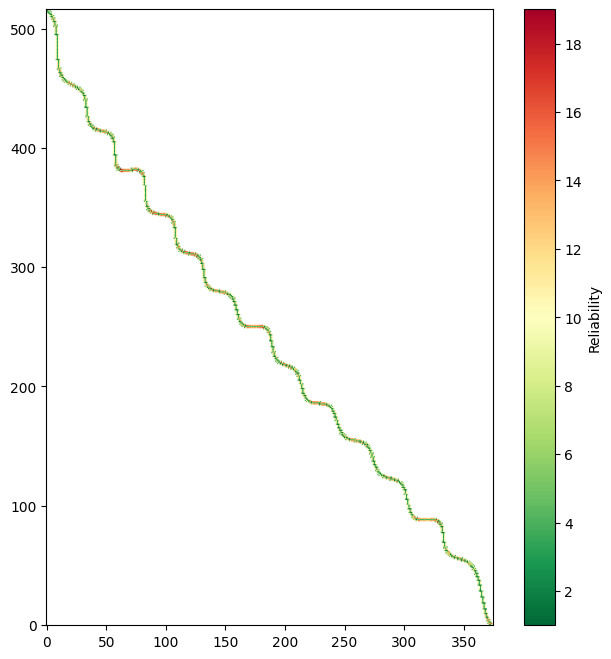
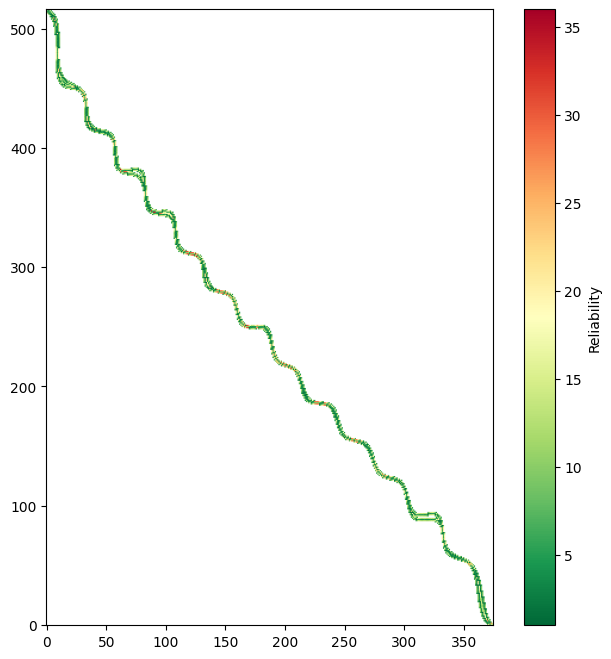
feat: added bump hazard coefficient Co-authored-by: Nunzio Licalzi <nunzio.licalzi9@gmail.com>
(vacanze a manila)

diff --git a/main_matrix.py b/main_matrix.py
@@ -14,6 +14,73 @@ from trajectory.tangent_derivative import obtain_inclination, obtain_slope_borde
 from tqdm.contrib.concurrent import process_map
 from scipy.ndimage import convolve
 
+def get_bump_coeff(alfa, tan, der_x, der_y, sw=None, tol:float=1e-3):
+
+    if sw is None:
+        sw:int = int(0.01*len(alfa))  
+    sw:int = ((sw - sw % 2) // 2) if sw > 10 else 15
+        
+    #calculate vector normal to the tangent vector
+    
+    normal = np.concatenate([tan[:, 1::-1] * np.array([-1, 1]), tan[:, 2:3]], axis=1)
+    
+    gamma = np.degrees(np.atan((der_x * normal[:, 0] + der_y * normal[:, 1])/(np.linalg.norm(normal, axis=1) + 1e-9)))
+
+    der_gamma = np.gradient(gamma)
+    
+    der_sw_gamma = np.zeros_like(der_gamma)
+
+    for j in range(sw, len(der_gamma)-sw):
+        der_sw_gamma[j] = np.mean(der_gamma[j-sw:j+sw])
+        
+    for j in range(sw):
+        der_sw_gamma[j] = np.mean(der_gamma[0:j+sw])
+            
+    for j in range(len(der_gamma)-sw, len(der_gamma)):
+        der_sw_gamma[j] = np.mean(der_gamma[j-sw:len(der_gamma)])
+
+    #COUNT NUMBER OF ZEROS IN SMOOTHED DERIVATIVE, in a sliding window
+    count_dgamma_zeros = np.zeros_like(der_sw_gamma)
+    for j in range(sw, len(der_gamma)-sw):        
+        count_dgamma_zeros[j] += np.sum(np.diff(np.where(np.abs(der_sw_gamma[j-sw:j+sw]) < tol, 1, 0), prepend=0) == 1)
+        
+    for j in range(sw):
+        count_dgamma_zeros[j] += np.sum(np.diff(np.where(np.abs(der_sw_gamma[0:j+sw]) < tol, 1, 0), prepend=0) == 1)
+            
+    for j in range(len(der_gamma)-sw, len(der_gamma)):
+        count_dgamma_zeros[j] += np.sum(np.diff(np.where(np.abs(der_sw_gamma[j-sw:len(der_gamma)]) < tol, 1, 0), prepend=0) == 1)
+    
+
+    #Now do the same on alfa
+    der_alfa = np.gradient(alfa)
+
+    der_sw_alfa = np.zeros_like(der_alfa)
+
+    for j in range(sw, len(der_alfa)-sw):
+        der_sw_alfa[j] = np.mean(der_alfa[j-sw:j+sw])
+        
+    for j in range(sw):
+        der_sw_alfa[j] = np.mean(der_alfa[0:j+sw])
+            
+    for j in range(len(der_alfa)-sw, len(der_alfa)):
+        der_sw_alfa[j] = np.mean(der_alfa[j-sw:len(der_alfa)])
+    
+    count_dalfa_zeros = np.zeros_like(der_sw_alfa)
+    for j in range(sw, len(der_alfa)-sw):        
+        count_dalfa_zeros[j] += np.sum(np.diff(np.where(np.abs(der_sw_alfa[j-sw:j+sw]) < tol, 1, 0), prepend=0) == 1)
+    
+        
+    for j in range(sw):
+        count_dalfa_zeros[j] += np.sum(np.diff(np.where(np.abs(der_sw_alfa[0:j+sw]) < tol, 1, 0), prepend=0) == 1)
+            
+    for j in range(len(der_alfa)-sw, len(der_alfa)):
+        count_dalfa_zeros[j] += np.sum(np.diff(np.where(np.abs(der_sw_alfa[j-sw:len(der_alfa)]) < tol, 1, 0), prepend=0) == 1)
+    
+    haz_coeff = count_dalfa_zeros+count_dgamma_zeros
+
+    haz_coeff = (haz_coeff-np.min(haz_coeff))/(np.max(haz_coeff)-np.min(haz_coeff) + 1e-9)
+
+    return haz_coeff
 
 def set_seed(seed:int) -> int:
     np.random.seed(seed)
@@ -21,7 +88,8 @@ def set_seed(seed:int) -> int:
     return seed
 
 def return_inclination(x_utm:np.ndarray, y_utm:np.ndarray, z_traj:np.ndarray, path_to_las:str):    
-    alpha_deg = -obtain_inclination(x_utm,y_utm,path_to_las)
+    alpha_deg, grads, real_z = obtain_inclination(x_utm,y_utm,path_to_las)
+    alpha_deg = -alpha_deg
     N = len(x_utm)
     
     if alpha_deg.shape[0] != N or np.isnan(alpha_deg).any():
@@ -34,17 +102,13 @@ def return_inclination(x_utm:np.ndarray, y_utm:np.ndarray, z_traj:np.ndarray, pa
     alpha_deg[N-1] = alpha_deg[N-2]
     alpha_deg[0] = alpha_deg[1] # Riempimento bordo iniziale
 
-    return alpha_deg
+    return alpha_deg, grads, real_z
         
-
 def _simulate(df, path_to_las:str):
-    alphas = return_inclination(df["Est [m]"].values, df["Nord [m]"].values, df["Quota Orto. [m]"].values, path_to_las)
-    return esegui_simulazione(df["Est [m]"].values, df["Nord [m]"].values, df["Quota Orto. [m]"].values, alfa=alphas), alphas
+    alphas, grads, real_z = return_inclination(df["Est [m]"].values, df["Nord [m]"].values, df["Quota Orto. [m]"].values, path_to_las)
+    return esegui_simulazione(df["Est [m]"].values, df["Nord [m]"].values, df["Quota Orto. [m]"].values, alfa=alphas), alphas, grads, real_z
 
-
-
-def main(): #To call main paste: python main_matrix.py --gates data/pointsLocationFirstCourse.csv --numTrajectories 200
-    NUMPOINTS = 3_000
+def main(num_points:int=3_000): #To call main paste: python main_matrix.py --gates data/pointsLocationFirstCourse.csv --numTrajectories 200
     parser = argparse.ArgumentParser(description="A script that accepts keyword-like arguments.")
     #paths for loading and saving data (REQUIRED)
     parser.add_argument("--gates", type=str, help="gates_path", required=True)
@@ -86,7 +150,7 @@ def main(): #To call main paste: python main_matrix.py --gates data/pointsLocati
     listDf, risSim = [], []
     maxX, maxY, minX, minY = -np.inf, -np.inf, np.inf, np.inf
 
-    listDf = [loader.prepareTrajectories(numPoints=NUMPOINTS, gates=traj) for traj in newTraj]
+    listDf = [loader.prepareTrajectories(numPoints=num_points, gates=traj) for traj in newTraj]
     len_trajectories = []
     for i in range(len(listDf)):
         len_traj = 0
@@ -109,8 +173,12 @@ def main(): #To call main paste: python main_matrix.py --gates data/pointsLocati
         desc="Simulating",
         unit="traj",
     )
-    risSim, alphas  = [res[0] for res in risSim], [res[1] for res in risSim]  # Extract the simulation results and the alphas
+    risSim, alphas, grads, real_z  = [res[0] for res in risSim], [res[1] for res in risSim], [res[2] for res in risSim], [res[3] for res in risSim]  # Extract the simulation results and the alphas
 
+    haz_bump_coeffs = []
+    
+    for i in range(len(alphas)):
+        haz_bump_coeffs.append(get_bump_coeff(alphas[i], risSim[i]['tan'],grads[i][:,0], grads[i][:,1], sw=30))
     
 
     # Post processing of the results
@@ -122,7 +190,7 @@ def main(): #To call main paste: python main_matrix.py --gates data/pointsLocati
     alphas_der_sw = []
 
     for i in range(len(alphas)):
-        alpha_der = np.abs(np.gradient(alphas[i]))
+        alpha_der = np.gradient(alphas[i])#np.abs(np.gradient(alphas[i]))
         alpha_der_sw = np.zeros_like(alpha_der)
         
         for j in range(15, len(alpha_der)-15):
@@ -164,6 +232,37 @@ def main(): #To call main paste: python main_matrix.py --gates data/pointsLocati
     plt.grid()
     plt.tight_layout()
 
+
+    plt.figure(figsize=(10, 4))
+    plt.plot(grads[0][:,0], label="Inclination w.r.t. X", linestyle='-')
+    plt.plot(grads[0][:,1], label="Inclination w.r.t. Y", linestyle='-')
+    plt.xlabel("Point index")
+    plt.ylabel("Inclination (degrees)")
+    plt.title("Surface Inclination Along Trajectory")
+    plt.legend()
+    plt.grid()
+    plt.tight_layout()
+
+    plt.figure(figsize=(10, 4))
+    plt.plot(np.degrees(np.arccos(grads[0][:,0])), label="Inclination w.r.t. X", linestyle='--')
+    plt.plot(180-np.degrees(np.arccos(grads[0][:,1])), label="Inclination w.r.t. Y", linestyle='--')
+    plt.xlabel("Point index")
+    plt.ylabel("Inclination (degrees)")
+    plt.title("Surface Inclination Along Trajectory")
+    plt.legend()
+    plt.grid()
+    plt.tight_layout()
+
+    print(real_z[0])
+    plt.figure(figsize=(10, 4))
+    plt.plot(real_z[0], label="Inclination w.r.t. X", linestyle='-')
+    plt.xlabel("Point index")
+    plt.ylabel("Inclination (degrees)")
+    plt.title("Surface Inclination Along Trajectory")
+    plt.legend()
+    plt.grid()
+    plt.tight_layout()
+    
     plt.show()
 
     haz_coeff_incl = [(alpha-np.min(alpha)) / (np.max(alpha)-np.min(alpha)) for alpha in alphas_der_sw]
@@ -172,7 +271,7 @@ def main(): #To call main paste: python main_matrix.py --gates data/pointsLocati
     
     # for alpha in alphas_der:
     weight = 0.5
-    haz_coeff = weight * np.array(haz_coeff_sim) + (1-weight) * np.array(haz_coeff_incl)
+    haz_coeff = haz_bump_coeffs #weight * np.array(haz_coeff_sim) + (1-weight) * np.array(haz_coeff_incl)
 
     # Create a river matrix with the cells of 1 meter x 1 meter and fill it with the hazard coefficients (for visualization purposes)
         
@@ -214,8 +313,8 @@ def main(): #To call main paste: python main_matrix.py --gates data/pointsLocati
     tangents = []
     for i in range(len(risSim)):
         len_traj = len_trajectories[i]
-        min_p = -5*(NUMPOINTS/len_traj)
-        max_p = 2*(NUMPOINTS/len_traj)
+        min_p = -5*(num_points/len_traj)
+        max_p = 2*(num_points/len_traj)
         haz_coeff = weight * haz_coeff_sim[i] + (1-weight) * haz_coeff_incl[i]
         lim_var = np.percentile(haz_coeff, 99)
         idxs = np.argwhere(haz_coeff >= lim_var)
@@ -244,15 +343,16 @@ def main(): #To call main paste: python main_matrix.py --gates data/pointsLocati
 
     # Overlay the first 10 escape tangents on the river matrix.
     # tangents[i] = (Nord, Est, angle); angle = arctan2(dNord, dEst) in real-world coords.
+    #TODO: DECOMMENT
     sx = (W - 1) / (maxX - minX + 1e-9)   # Est [m]  -> column (Est) index scale
     sy = (H - 1) / (maxY - minY + 1e-9)   # Nord [m] -> row (Nord) index scale
-    t = np.array([-20, 20])   # half-length of each drawn tangent, in meters
-    for nord, est, angle in tangents:
-        est_idx  = (est  - minX) * sx
-        nord_idx = (nord - minY) * sy
-        # displayed image is riverMatrix.T: plot-x = Nord index, plot-y = Est index
-        plt.plot(nord_idx + np.sin(angle) * sy * t, est_idx  + np.cos(angle) * sx * t, color='blue', linewidth=1.5)
-        plt.plot(nord_idx, est_idx, marker='o', color='blue', markersize=4)
+    # t = np.array([-20, 20])   # half-length of each drawn tangent, in meters
+    # for nord, est, angle in tangents:
+    #     est_idx  = (est  - minX) * sx
+    #     nord_idx = (nord - minY) * sy
+    #     # displayed image is riverMatrix.T: plot-x = Nord index, plot-y = Est index
+    #     plt.plot(nord_idx + np.sin(angle) * sy * t, est_idx  + np.cos(angle) * sx * t, color='blue', linewidth=1.5)
+    #     plt.plot(nord_idx, est_idx, marker='o', color='blue', markersize=4)
 
 
     # Overlay the slope borders recovered from the --path_to_las point cloud.
@@ -289,6 +389,7 @@ def main(): #To call main paste: python main_matrix.py --gates data/pointsLocati
     
 
 if __name__ == "__main__":
-    SEED = 23
+    SEED:int = 23
+    NUM_POINTS:int = 3_000
     assert set_seed(SEED) == SEED, "Error setting the seed"
     main()

diff --git a/trajectory/tangent_derivative.py b/trajectory/tangent_derivative.py
@@ -37,6 +37,7 @@ import argparse
 import json
 import os
 
+import pandas as pd
 import numpy as np
 from scipy.spatial import cKDTree
 from scipy.ndimage import (
@@ -48,6 +49,8 @@ from scipy.ndimage import (
 
 import laspy
 
+
+from scipy.ndimage import convolve
 
 def load_trajectory(json_path):
     """Load the GNSS trajectory as horizontal positions + reference height.
@@ -234,10 +237,16 @@ def obtain_inclination(x, y, file_source):
     xy = np.stack([x, y], axis=1)
     bbox = (xy[:, 0].min(), xy[:, 1].min(), xy[:, 0].max(), xy[:, 1].max())
     surface = load_surface_points(file_source, bbox, 10.0)
+    der, grads = tangent_derivatives(xy, surface, 5.0, 5)
 
-    der, _ = tangent_derivatives(xy, surface, 5.0, 5)
+    # Sample the surface height at each trajectory point via nearest neighbour.
+    # An exact (x, y) merge never matches: the interpolated trajectory points do
+    # not coincide with discrete LAS points, so we look up the closest one.
+    tree = cKDTree(surface[:, :2])
+    _, nn_idx = tree.query(xy, k=1)
+    z_coordinates = surface[nn_idx, 2]
 
-    return np.degrees(np.arctan(der))
+    return np.degrees(np.arctan(der)), grads, z_coordinates
 
 def main():
     parser = argparse.ArgumentParser(

diff --git a/skier_model_py/physical_model.py b/skier_model_py/physical_model.py
@@ -238,6 +238,7 @@ def esegui_simulazione(x_traj, y_traj, z_traj, m=80, g=9.81, mu=0.16, rho=1.225,
         'F_cent': F_cent_vec,
         'F_net': F_net_vec,
         'R': R_vec,
+        'tan': T_hat,
     }
 
     # Estraiamo i dati dal dizionario
